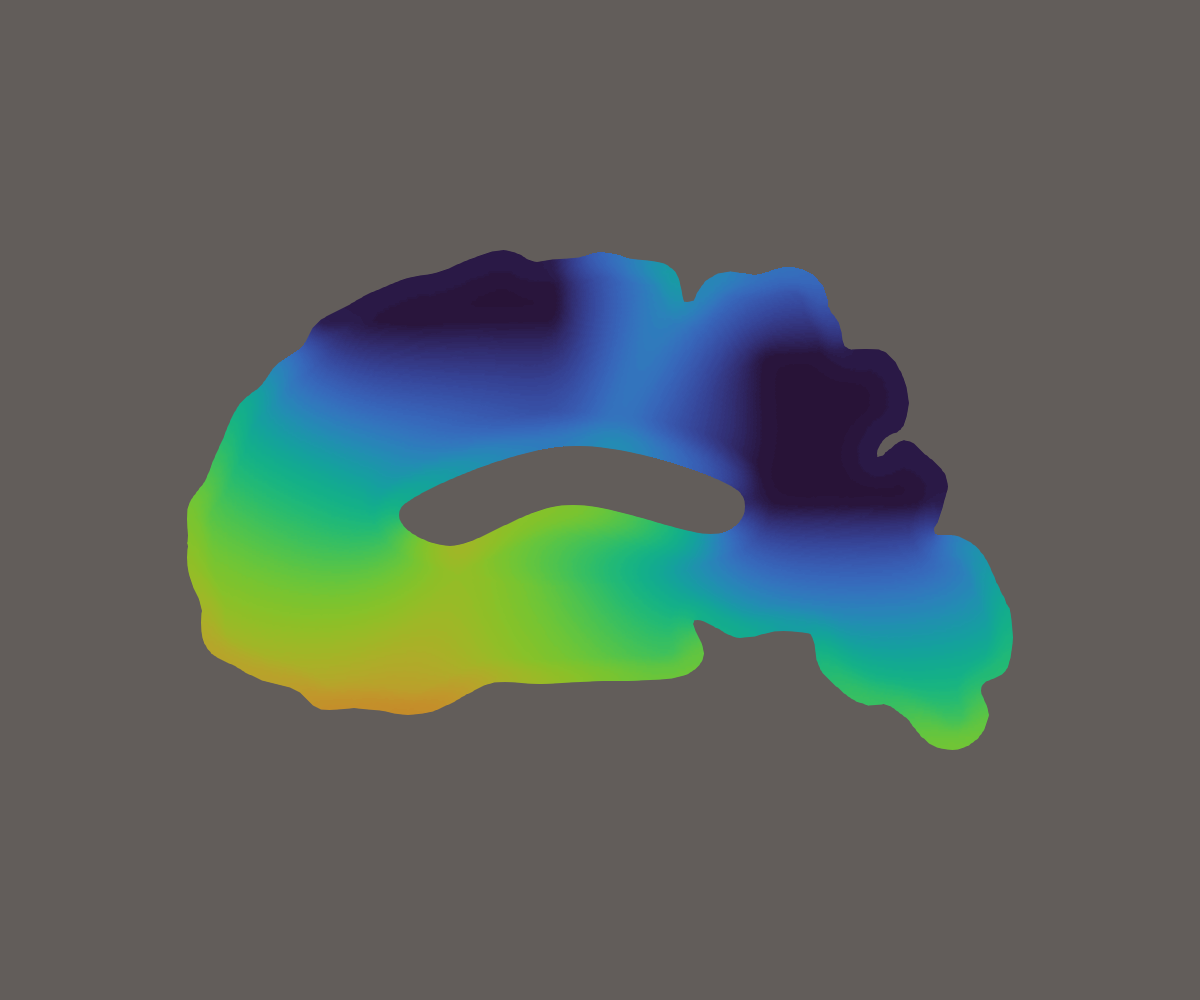
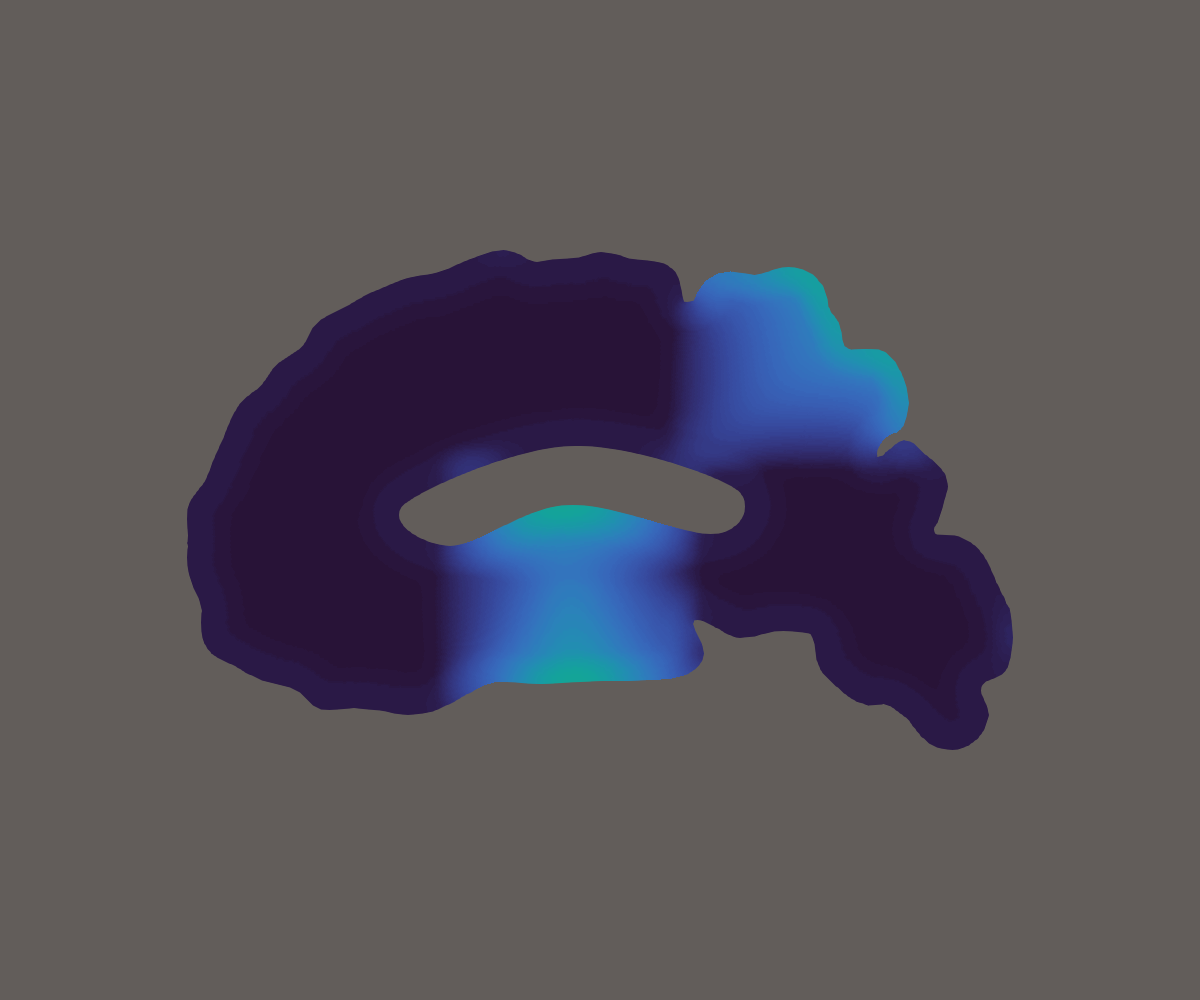
modify seeding regions and percentage of gray matter threshold

Changed region(s): [[0.1542, 0.248, 0.8633, 0.775]]

diff --git a/src/common/SeedingRegions.cpp b/src/common/SeedingRegions.cpp
@@ -116,8 +116,11 @@ std::unique_ptr<SeedingRegion<DIM>> SeedingRegion<DIM>::create(SeedingRegionType
         corners.push_back(make_pair(Point<2>(70, 42), Point<2>(90, 52)));
         break;
       case SeedingRegionType::AmyloidBeta:   // Example: Two boxes
-        corners.push_back(make_pair(Point<2>(5, 100), Point<2>(70, 120)));
-        corners.push_back(make_pair(Point<2>(100, 70), Point<2>(140, 100)));
+        // corners.push_back(make_pair(Point<2>(5, 100), Point<2>(70, 120)));
+        // corners.push_back(make_pair(Point<2>(100, 70), Point<2>(140, 100)));
+        corners.push_back(make_pair(Point<2>(0, 0), Point<2>(50, 80)));
+        corners.push_back(make_pair(Point<2>(0, 80), Point<2>(90, 115)));
+        corners.push_back(make_pair(Point<2>(90, 0), Point<2>(145, 80)));
         break;
       case SeedingRegionType::Tau:            // Example: A different box
         // corners.push_back(make_pair(Point<2>(90, 60), Point<2>(98, 65)));
@@ -126,7 +129,7 @@ std::unique_ptr<SeedingRegion<DIM>> SeedingRegion<DIM>::create(SeedingRegionType
         break;
       case SeedingRegionType::TDP43:          // Example: Yet another box
         corners.push_back(make_pair(Point<2>(80, 42), Point<2>(90, 47)));
-        corners.push_back(make_pair(Point<2>(63, 90), Point<2>(76, 115)));
+        corners.push_back(make_pair(Point<2>(63, 80), Point<2>(76, 115)));
         break;
       default:
         throw std::invalid_argument("Unknown seeding region type for 2D");

diff --git a/scripts/2D/figure_9/visualize_2d_figure_9.py b/scripts/2D/figure_9/visualize_2d_figure_9.py
@@ -32,14 +32,16 @@ if __name__ == "__main__":
             full_path = os.path.join(RESULTS_BASE_DIR, disease_name, fiber_model_name)
             input_vtu_for_plotting = os.path.join(full_path, "activation_time.vtu")
             output_png = os.path.join(full_path, "activation_plot.png")
+            
             if not os.path.isdir(full_path):
                 print(f"Warning: Directory not found for case '{case_name}'. Skipping.")
                 continue
             if not os.path.exists(input_vtu_for_plotting):
                 compute_command = f'bash -c "source /opt/miniforge3/bin/activate pv-env; pvpython {COMPUTE_SCRIPT_PATH} ."'
                 subprocess.run(compute_command, shell=True, capture_output=True, text=True, cwd=full_path)
-            plot_command = f'bash -c "source /opt/miniforge3/bin/activate pv-env; pvpython {PLOT_SCRIPT_PATH} activation_time.vtu activation_plot.png"'
-            subprocess.run(plot_command, shell=True, capture_output=True, text=True, cwd=full_path)
+            if not os.path.exists(output_png):
+                plot_command = f'bash -c "source /opt/miniforge3/bin/activate pv-env; pvpython {PLOT_SCRIPT_PATH} activation_time.vtu activation_plot.png"'
+                subprocess.run(plot_command, shell=True, capture_output=True, text=True, cwd=full_path)
 
     # --- Stage 3: Assemble the final 4x4 figure ---
     print("\n--- STAGE 3: Assembling final 4x4 figure ---")

diff --git a/scripts/2D/visualize_2d_single_case.py b/scripts/2D/visualize_2d_single_case.py
@@ -17,7 +17,7 @@ if __name__ == "__main__":
 
     # --- Configuration ---
     SCRIPT_DIR = os.path.dirname(os.path.abspath(__file__))
-    PROJECT_ROOT = os.path.abspath(os.path.join(SCRIPT_DIR, '..', '..', '..'))
+    PROJECT_ROOT = os.path.abspath(os.path.join(SCRIPT_DIR, '..', '..'))
     
     # Paths to the generic pvpython helper scripts
     COMPUTE_SCRIPT_PATH = os.path.join(PROJECT_ROOT, "scripts/2D/compute_activation.py")
